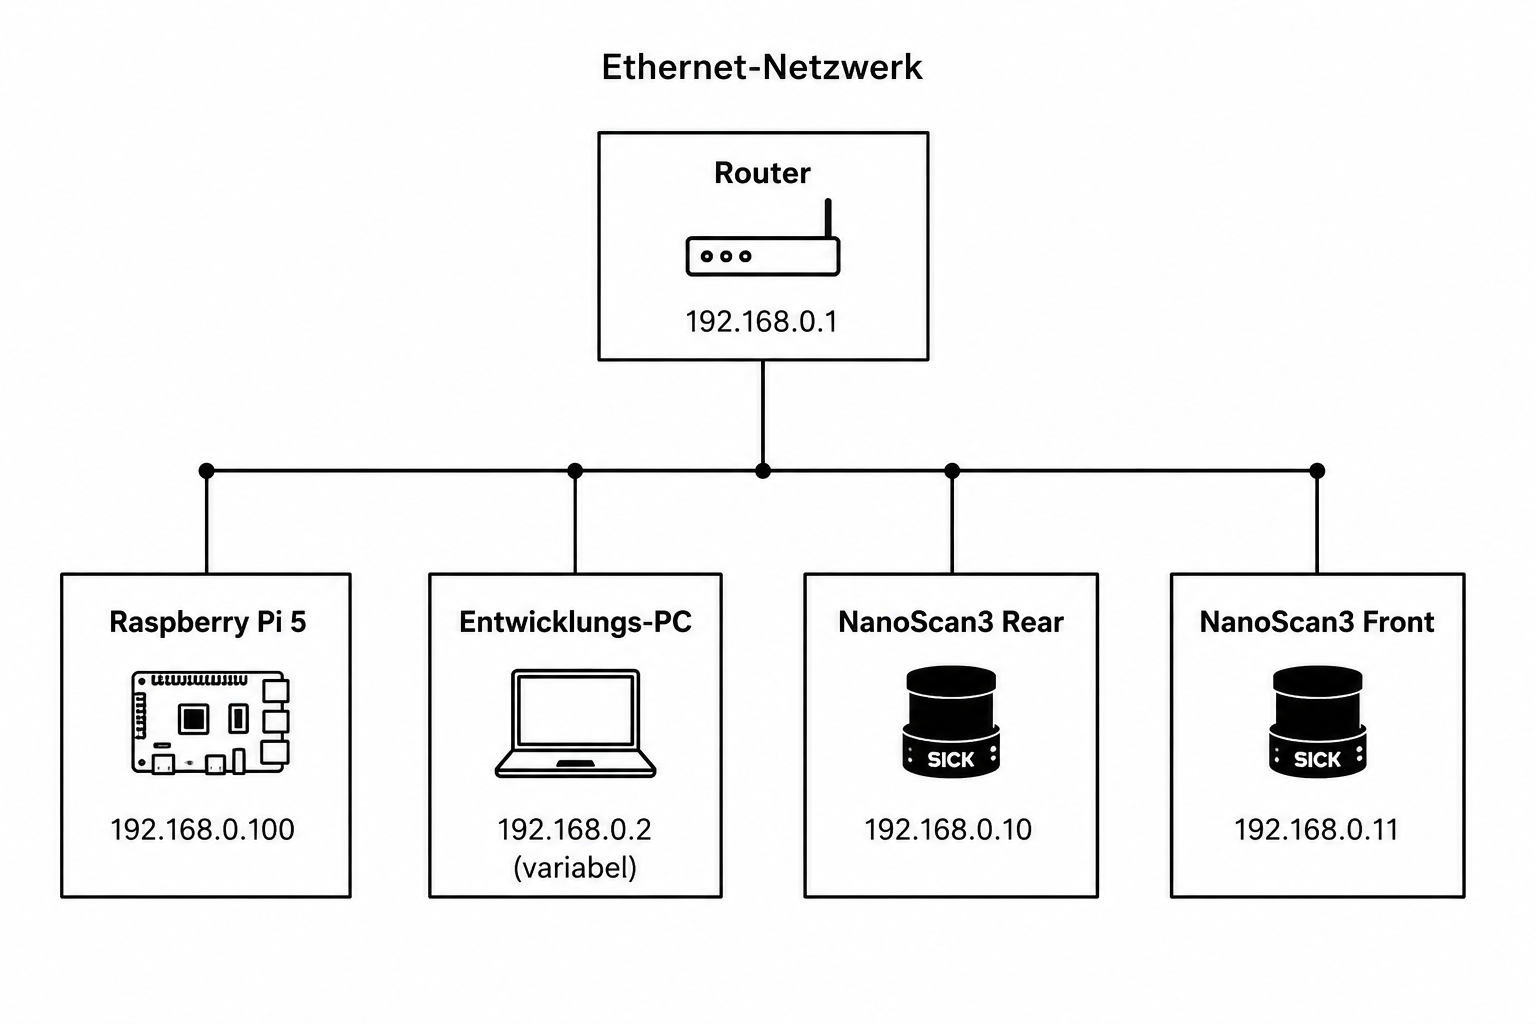
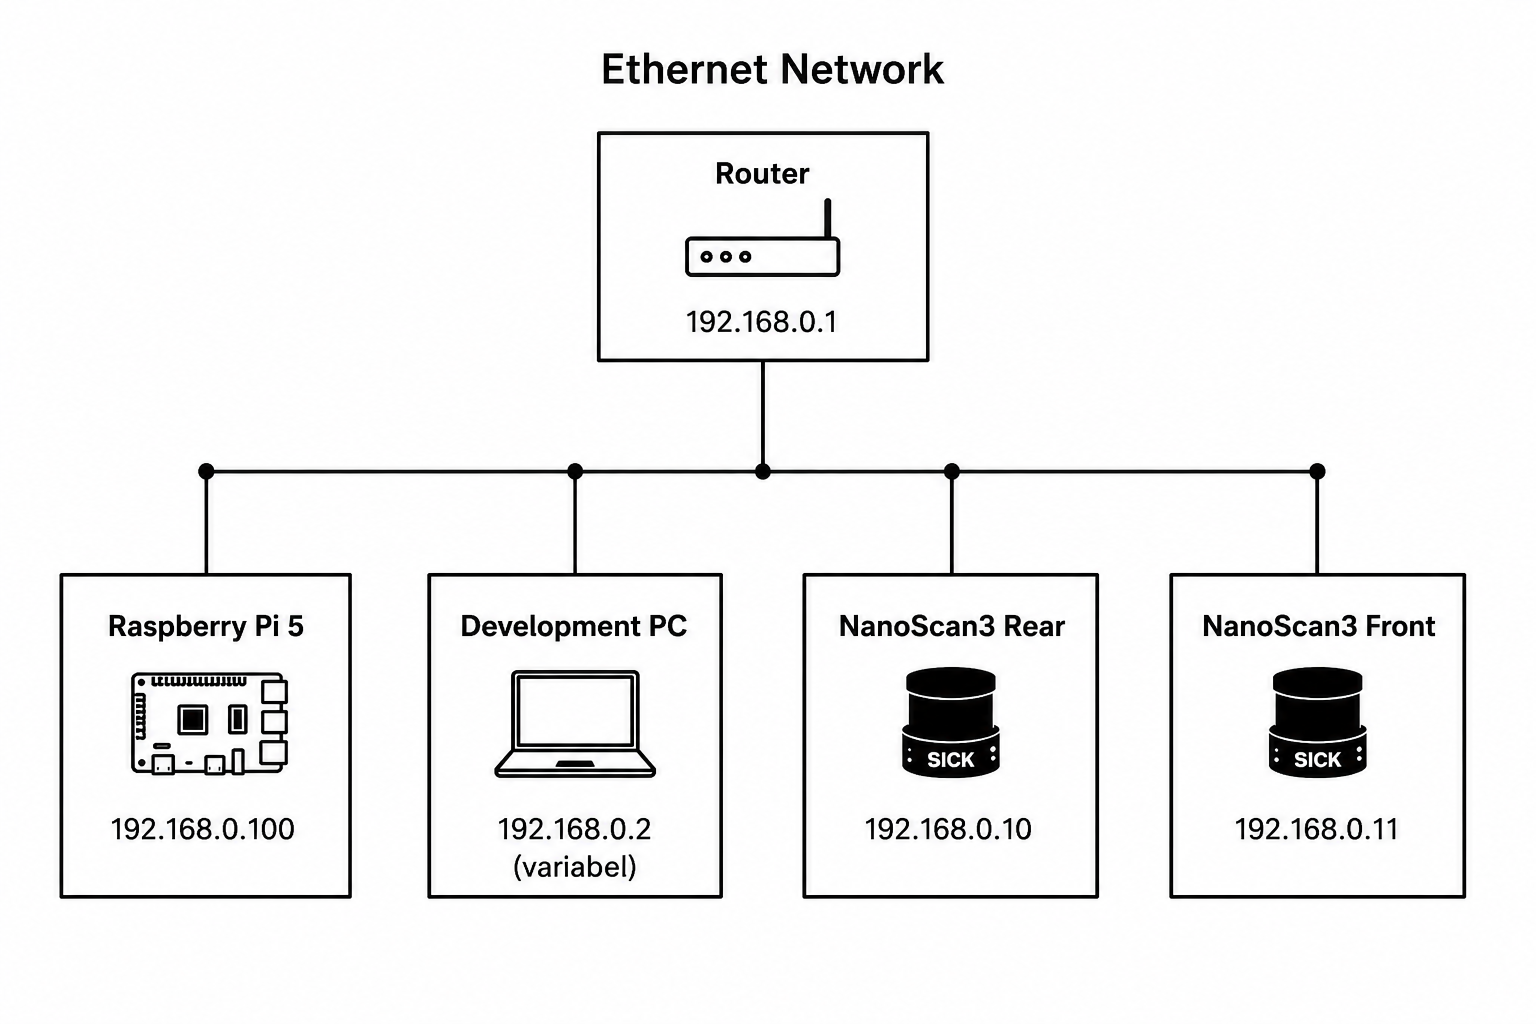
Network Readme V1

diff --git a/docs/network/README.md b/docs/network/README.md
@@ -1,0 +1,40 @@
+# Network
+
+The **HSK-Mensabot** uses a dedicated local Ethernet network to connect all communication-critical hardware components. A central router provides the network infrastructure and enables reliable communication between the robot, the laser scanners and the development computer.
+
+The Raspberry Pi and both SICK NanoScan3 laser scanners are connected to the router via Ethernet. The development computer can access the network either through a wired Ethernet connection or wirelessly via Wi-Fi, allowing software development, monitoring and maintenance without modifying the robot hardware.
+
+---
+
+# 1. Network Topology
+
+The following figure illustrates the network structure of the HSK-Mensabot.
+
+<p align="center">
+  <img src="/../images/network_plan.png" width="700">
+</p>
+
+---
+
+# 2. IP Address Assignment
+
+To ensure reliable communication, all permanent network devices use static IP addresses.
+
+| Device | IP Address |
+|---------|------------|
+| Router | `192.168.0.1` |
+| Raspberry Pi 5 | `192.168.0.100` |
+| NanoScan3 Rear | `192.168.0.10` |
+| NanoScan3 Front | `192.168.0.11` |
+| Development PC | `192.168.0.2` *(variable)* |
+
+Using static IP addresses eliminates address changes after reboot and simplifies communication with the robot hardware during development and operation.
+
+---
+
+# Related Documentation
+
+- **[Hardware](../hardware/)**
+- **[LiDAR Documentation](../hardware/lidars/)**
+- **[Communication](../communication/)**
+- **[Installation](../installation/)**
